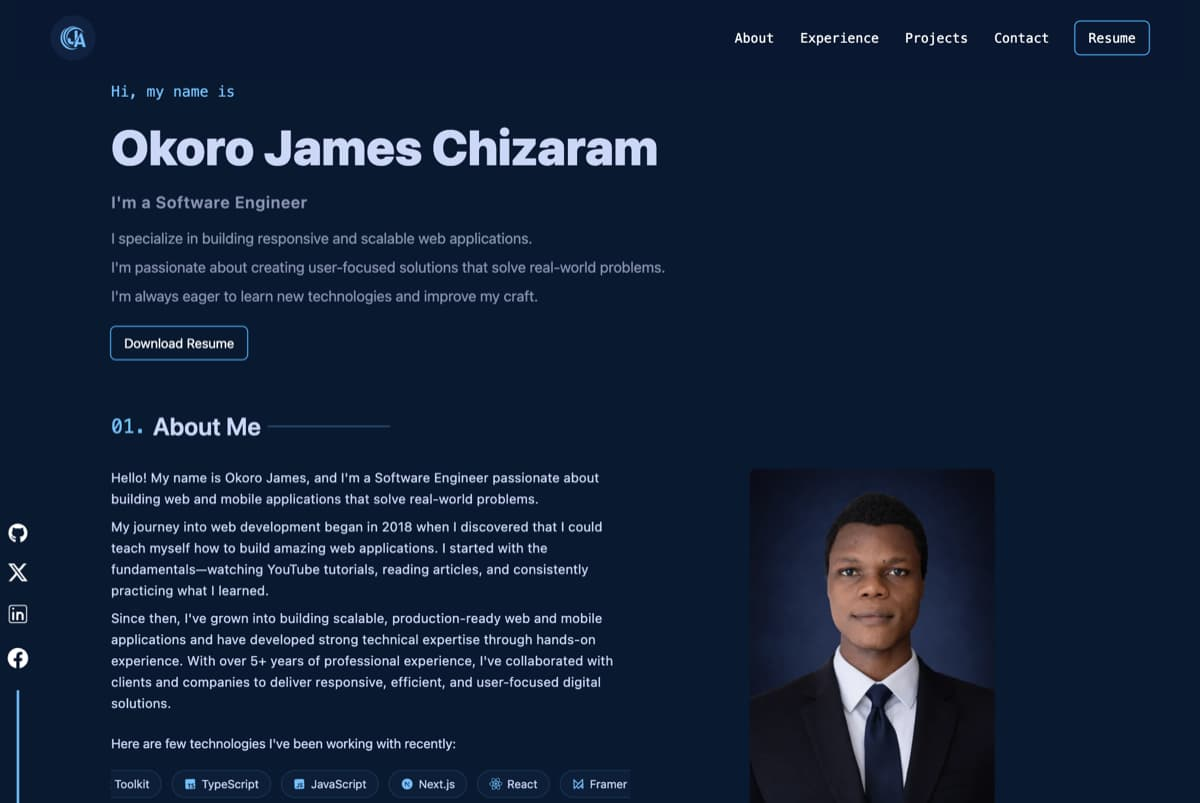
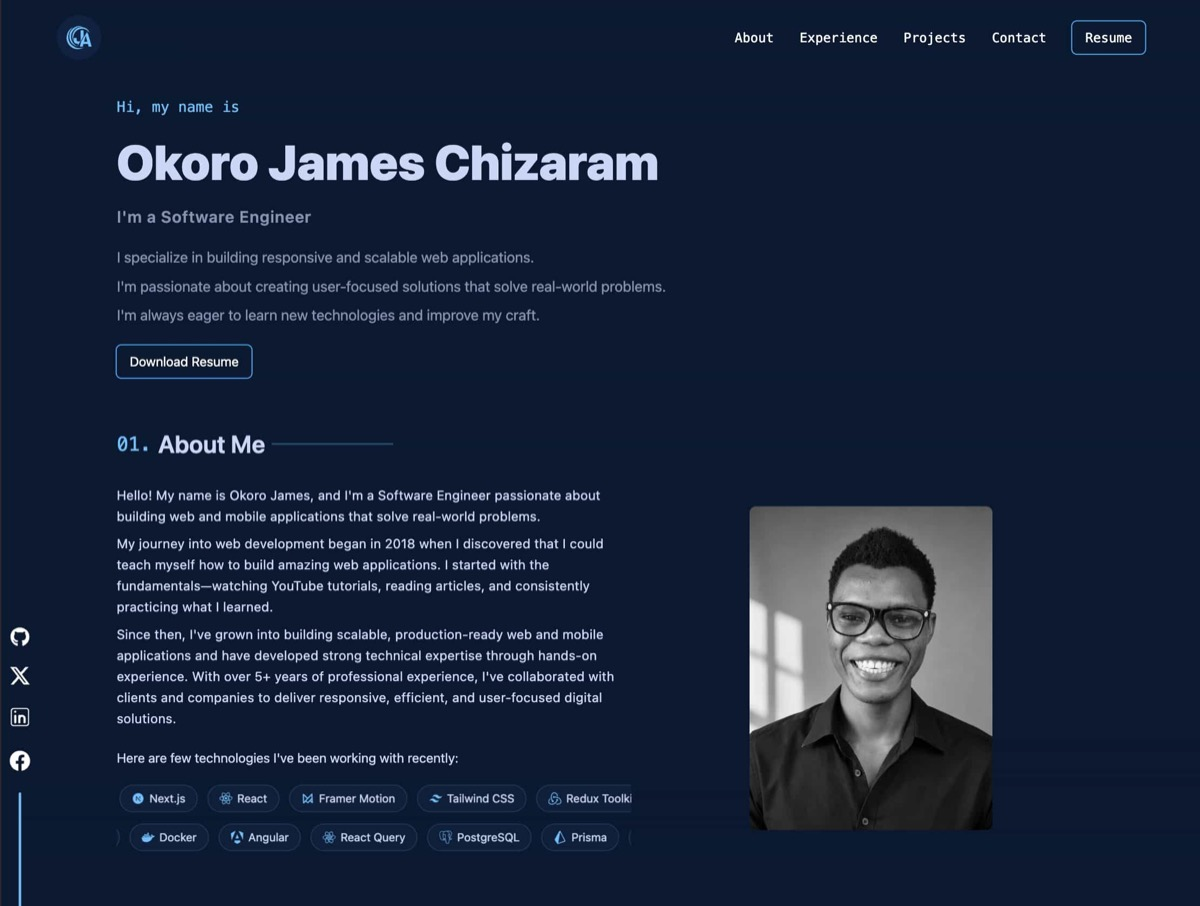
feat(about picture update): about profile portfolio picture update

diff --git a/src/components/hero-components/second-section.tsx b/src/components/hero-components/second-section.tsx
@@ -115,7 +115,7 @@ export const SecondSection = () => {
         </div>
 
         <Image
-          src="https://res.cloudinary.com/dcwpjyezj/image/upload/v1773153357/uploads/OkoroJamesChizaram_jmdglg.png"
+          src="https://res.cloudinary.com/dcwpjyezj/image/upload/v1786874151/uploads/okorojames_is3leo.jpg"
           loader={cloudinaryLoader}
           width={300}
           height={300}
